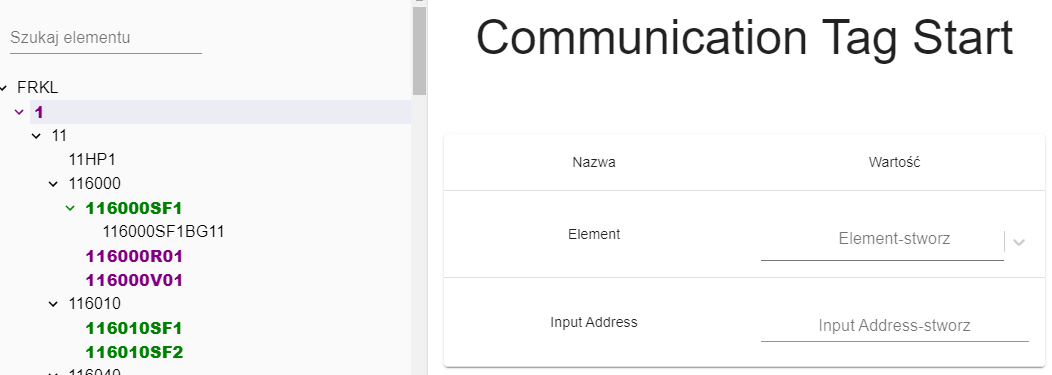
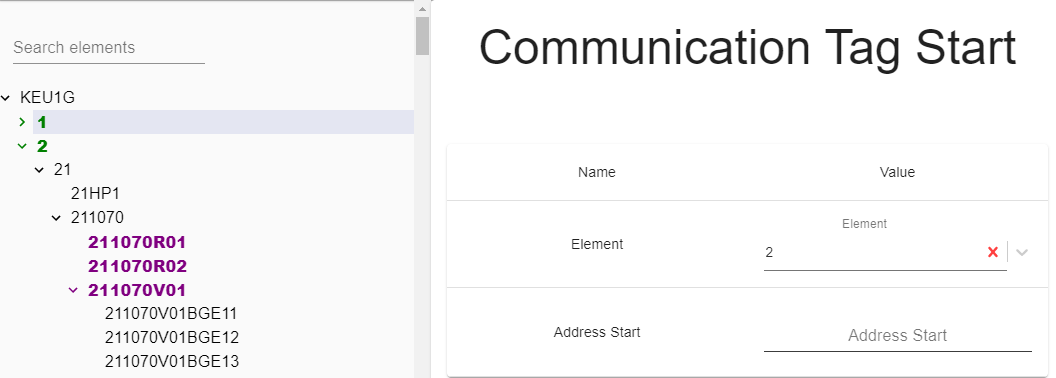
[Add] required Configuration assets

diff --git a/sidebars.js b/sidebars.js
@@ -10,31 +10,28 @@
 module.exports = {
   someSidebar: {
     Docusaurus: ['doc1'],
-    Features: [
+    Generation: [
       {
         'Program Blocks':[
           {
-            OB:['features/program blocks/ob/OB1'],
-            Safety:['features/program blocks/safety/ARG',
-            'features/program blocks/safety/SK',
-            'features/program blocks/safety/NOT_HALT_ANTRIEBE',
-            'features/program blocks/safety/LAST_SK'],
-            POT:['features/program blocks/pot/POT'],      
-            Grundfunktionen:['features/program blocks/grundfunktionen/Grundfunktionen'],     
-            Vorwahlen:['features/program blocks/vorwahlen/Vorwahlen'],
-            Betriebsarten:['features/program blocks/betriebsarten/Betriebsarten'],
-            Stationen:['features/program blocks/stationen/Stationen'],
-            Roboter:['features/program blocks/roboter/Roboter'],
-            Schnittstellen:['features/program blocks/schnittstellen/Schnittstellen'],
+            OB:['generation/program blocks/ob/OB1'],
+            Safety:['generation/program blocks/safety/ARG',
+            'generation/program blocks/safety/SK',
+            'generation/program blocks/safety/NOT_HALT_ANTRIEBE',
+            'generation/program blocks/safety/LAST_SK'],
+            POT:['generation/program blocks/pot/POT'],      
+            Grundfunktionen:['generation/program blocks/grundfunktionen/Grundfunktionen'],     
+            Vorwahlen:['generation/program blocks/vorwahlen/Vorwahlen'],
+            Betriebsarten:['generation/program blocks/betriebsarten/Betriebsarten'],
+            Stationen:['generation/program blocks/stationen/Stationen'],
+            Roboter:['generation/program blocks/roboter/Roboter'],
+            Schnittstellen:['generation/program blocks/schnittstellen/Schnittstellen'],
           }
         ],
-        Tags:[
-          {
-            Communication:['features/tags/communication/Communication'],
-            Inverters:['features/tags/inverters/Inverters'],
-            Robots:['features/tags/robots/Robots'],
-            Sick:['features/tags/sick/Sick']
-          }
+        Tags:['generation/tags/Communication',
+        'generation/tags/Inverters',
+        'generation/tags/Robots',
+        'generation/tags/Sick'
         ]
       }
     ],
@@ -48,12 +45,22 @@ module.exports = {
         'configuration/robots/WerkzeugFreigabe'],
         Safety:['configuration/safety/MobilePanel',
         'configuration/safety/RollGate'],
-        Stations:['configuration/stations/Fertigmeldung'],
-        Inverters:['configuration/inverters/Controller',
-          'configuration/inverters/Technology',
-          'configuration/inverters/PositionSensor'],
-        Sensors:['configuration/sensors/Part'],
+        Stations:['configuration/stations/Fertigmeldung',
+          {
+            Inverters:['configuration/inverters/Controller',
+            'configuration/inverters/Technology',
+            'configuration/inverters/PositionSensor'],
+            Sensors:['configuration/sensors/Part'],
+          }
+        ]       
       }
+    ],
+    SpsMatrix:[
+      'spsMatrix/Tools',
+      'spsMatrix/Fertigmeldung',
+      'spsMatrix/Interlock',
+      'spsMatrix/StellungFreigabe',
+      'spsMatrix/WerkzeugFreigabe'
     ]
   },
 };

diff --git a/docs/configuration/plc/Communication.md b/docs/configuration/plc/Communication.md
@@ -3,6 +3,19 @@ id: Communication
 title: Communication
 ---
 
-When in line exist more than one PLC it is recommended to set for each communication address scope.
+## Description
+
+When in line exist more than one PLC is recommended to set for each communication address scope.
 
 <img src={'\\assets\\docs\\configuration\\plc\\Communication.jpg'}/>
+
+---
+
+## Parameters
+
+| Name          |      Value
+| ------------- | :-----------:
+| Element       | Target PLC to comunicate                 
+| Address Start | Start of Input/Output address comunicataion pack 
+
+To see which tags will be generated click [Tags](../../generation/tags/Communication).

diff --git a/docs/spsMatrix/StellungFreigabe.md b/docs/spsMatrix/StellungFreigabe.md
@@ -1,0 +1,5 @@
+---
+id: StellungFreigabe
+title: StellungFreigabe
+---
+

diff --git a/docs/spsMatrix/WerkzeugFreigabe.md b/docs/spsMatrix/WerkzeugFreigabe.md
@@ -1,0 +1,5 @@
+---
+id: WerkzeugFreigabe
+title: WerkzeugFreigabe
+---
+

diff --git a/docs/spsMatrix/Fertigmeldung.md b/docs/spsMatrix/Fertigmeldung.md
@@ -1,0 +1,5 @@
+---
+id: Fertigmeldung
+title: Fertigmeldung
+---
+

diff --git a/docs/spsMatrix/Interlock.md b/docs/spsMatrix/Interlock.md
@@ -1,0 +1,5 @@
+---
+id: Interlock
+title: Interlock
+---
+

diff --git a/docs/spsMatrix/Tools.md b/docs/spsMatrix/Tools.md
@@ -1,0 +1,5 @@
+---
+id: Tools
+title: Tools
+---
+
